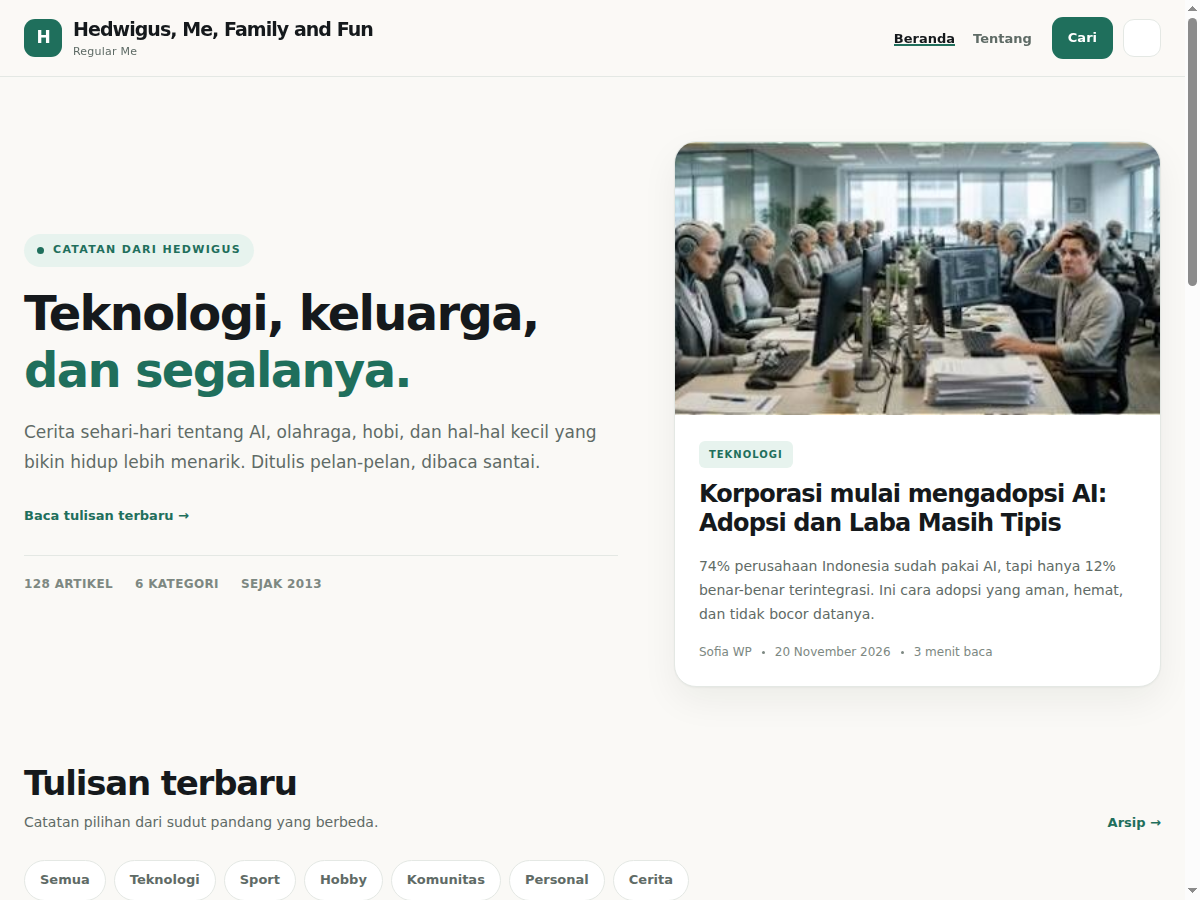
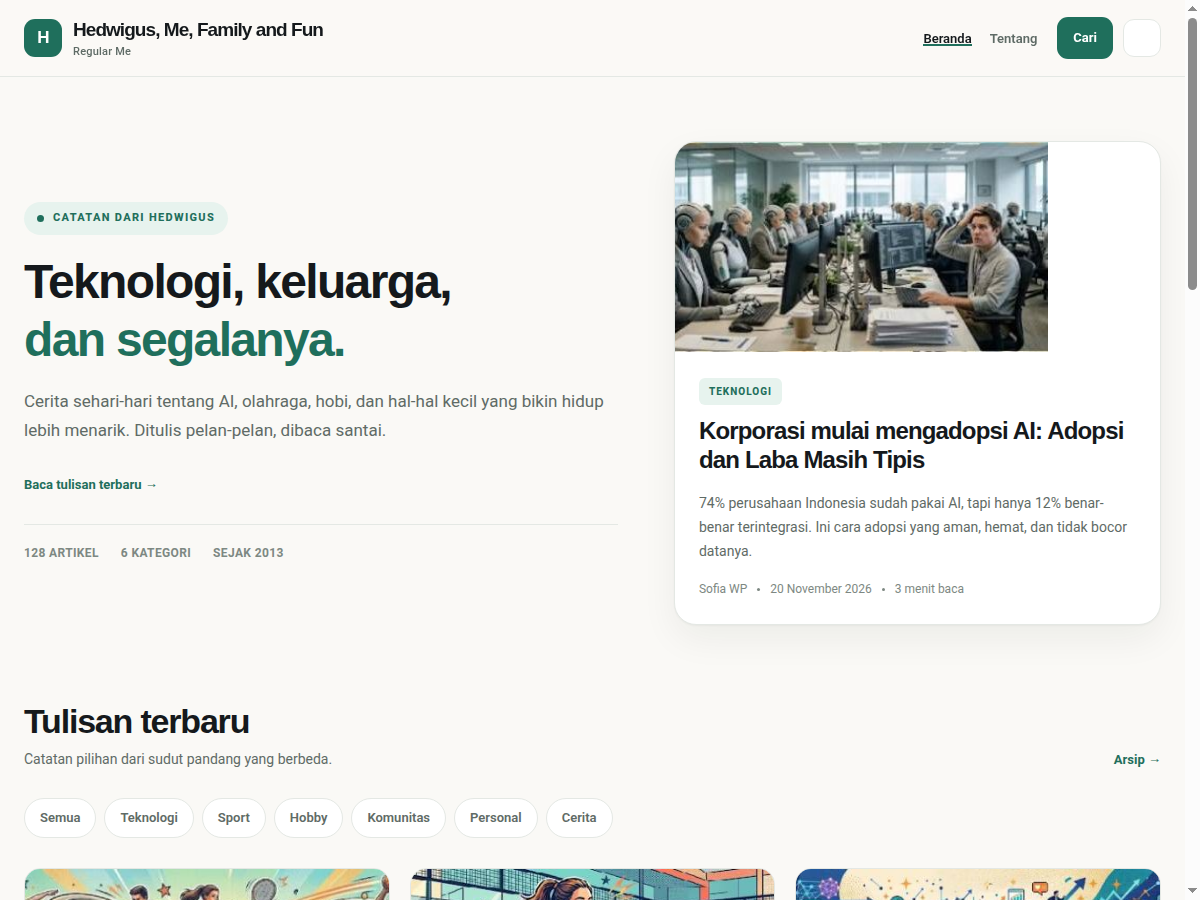
Cap hero image at 210px and bump theme to 1.0.4

diff --git a/style.css b/style.css
@@ -4,7 +4,7 @@ Theme URI: https://hedwigus.com
 Author: The Hedwig
 Author URI: https://hedwigus.com
 Description: A modern, minimalist and fast editorial theme for the Hedwigus personal journal. Clean typography, responsive layout, optional dark mode, no build step.
-Version: 1.0.3
+Version: 1.0.4
 Requires at least: 6.0
 Tested up to: 6.8
 Requires PHP: 8.0
@@ -117,7 +117,7 @@ html[data-theme="dark"] .search-toggle{color:#072019}
 .hero-meta{display:flex;gap:22px;flex-wrap:wrap;font-size:12px;font-weight:700;color:var(--faint);letter-spacing:.03em;text-transform:uppercase;border-top:1px solid var(--line);padding-top:18px}
 .hero .text-link + .hero-meta{margin-top:26px}
 .hero-card{background:var(--surface);border:1px solid var(--line);border-radius:22px;overflow:hidden;box-shadow:var(--shadow)}
-.hero-card a.thumb{display:block;aspect-ratio:16/9;overflow:hidden;background:var(--surface-2)}
+.hero-card a.thumb{display:block;aspect-ratio:16/9;max-height:210px;overflow:hidden;background:var(--surface-2)}
 .hero-card a.thumb img{width:100%;height:100%;object-fit:cover;transition:transform .5s var(--ease)}
 .hero-card a.thumb:hover img{transform:scale(1.04)}
 .hero-card-body{padding:24px}

diff --git a/preview/tests/test-hero-thumb-height.php b/preview/tests/test-hero-thumb-height.php
@@ -1,0 +1,21 @@
+<?php
+/**
+ * Test: hero card image never grows taller than the source image.
+ * Run: php preview/tests/test-hero-thumb-height.php
+ */
+
+$css = file_get_contents( dirname( __DIR__, 2 ) . '/style.css' );
+
+if ( ! preg_match( '/\.hero-card a\.thumb\s*\{([^}]*)\}/', $css, $m ) ) {
+	fwrite( STDERR, "FAIL: .hero-card a.thumb rule not found\n" );
+	exit( 1 );
+}
+
+$rule = $m[1];
+
+if ( ! preg_match( '/max-height:\s*210px/', $rule ) ) {
+	fwrite( STDERR, "FAIL: hero thumb needs max-height:210px\nRule: {$rule}\n" );
+	exit( 1 );
+}
+
+echo "PASS: hero thumb is capped at 210px\n";

diff --git a/functions.php b/functions.php
@@ -50,7 +50,7 @@ add_action( 'wp_enqueue_scripts', 'hedwigus_assets' );
  * Styles and scripts. No build step, no jQuery dependency.
  */
 function hedwigus_assets() {
-	wp_enqueue_style( 'hedwigus-style', get_stylesheet_uri(), array(), '1.0.3' );
+	wp_enqueue_style( 'hedwigus-style', get_stylesheet_uri(), array(), '1.0.4' );
 
 	wp_enqueue_script(
 		'hedwigus-theme',
